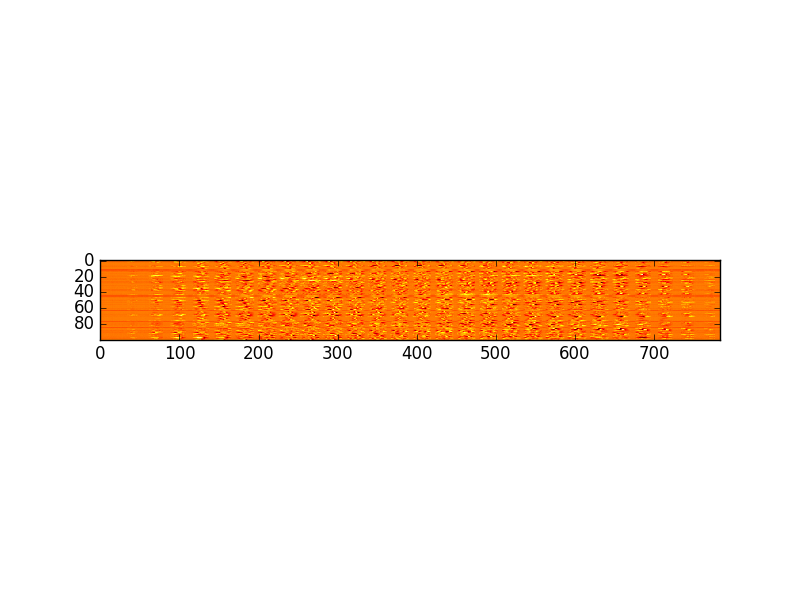
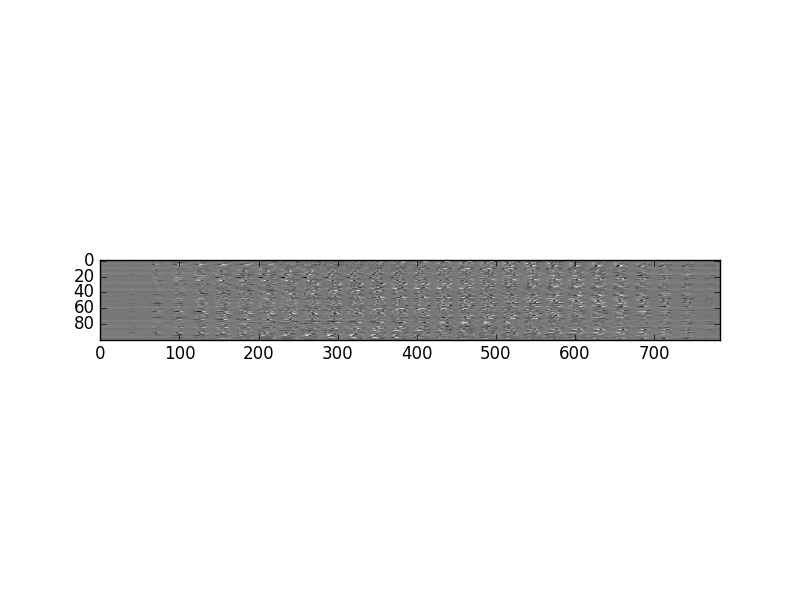
l

Changed region(s): [[0.125, 0.42, 0.9062, 0.57]]

diff --git a/rbm.py b/rbm.py
@@ -28,41 +28,41 @@ def gen_even_slices(n, n_packs, n_samples=None):
 def reformat_data(data):
 	return data.reshape((28, 28))
 
-train_data = []
-test_data = []
+def run(train_data, test_data):
+	batch_size=10
+	n_samples = np.array(train_data).shape[0]
+	n_batches = int(np.ceil(float(n_samples) / batch_size))
+	batch_slices = list(gen_even_slices(n_batches * batch_size, n_batches, n_samples))
 
-with open('binMNIST_data\\bindigit_trn.csv') as f:
-	reader = csv.reader(f)
-	for row in reader:
-		train_data.append(np.array([int(_) for _ in row]))
+	nodes = [50, 75, 100, 150]
 
-with open('binMNIST_data\\bindigit_tst.csv') as f:
-	reader = csv.reader(f)
-	for row in reader:
-		test_data.append(np.array([int(_) for _ in row]))
+	for item in nodes:
+		errors = []
+		model = BernoulliRBM(n_components=item, learning_rate=0.1, batch_size=10, n_iter=1, 
+		random_state=None, verbose=1)
+		for _ in range(20):
+			for batch_slice in batch_slices:
+				model.partial_fit(train_data[batch_slice])
+			errors.append(percent_error(model.gibbs(test_data), test_data))
+		plot.plot_points(errors)
+		plot.plot_heatmap(reformat_data(test_data[0]))
+		plot.plot_heatmap(reformat_data(model.gibbs(test_data)[0]))
+		
+		if item == 50 or item == 100:
+			plot.plot_heatmap(model.__dict__['components_'].reshape(item,784))
 
+if __name__ == "__main__":
+	train_data = []
+	test_data = []
 
+	with open('binMNIST_data\\bindigit_trn.csv') as f:
+		reader = csv.reader(f)
+		for row in reader:
+			train_data.append(np.array([int(_) for _ in row]))
 
-batch_size=10
-n_samples = np.array(train_data).shape[0]
-n_batches = int(np.ceil(float(n_samples) / batch_size))
-batch_slices = list(gen_even_slices(n_batches * batch_size, n_batches, n_samples))
+	with open('binMNIST_data\\bindigit_tst.csv') as f:
+		reader = csv.reader(f)
+		for row in reader:
+			test_data.append(np.array([int(_) for _ in row]))
 
-nodes = [50, 75, 100, 150]
-
-for item in nodes:
-	errors = []
-	model = BernoulliRBM(n_components=item, learning_rate=0.1, batch_size=10, n_iter=1, 
-	random_state=None, verbose=1)
-	for _ in range(20):
-		for batch_slice in batch_slices:
-			model.partial_fit(train_data[batch_slice])
-		errors.append(percent_error(model.gibbs(test_data), test_data))
-	plot.plot_points(errors)
-	plot.plot_heatmap(reformat_data(test_data[0]))
-	plot.plot_heatmap(reformat_data(model.gibbs(test_data)[0]))
-	
-	if item == 50 or item == 100:
-		plot.plot_heatmap(model.__dict__['components_'].reshape(item,784))
-
-
+	run(train_data, test_data)

diff --git a/ae.py b/ae.py
@@ -1,0 +1,57 @@
+from keras.layers import Input, Dense
+from keras.models import Model
+from keras.callbacks import History 
+import csv
+import numpy as np
+import plot
+
+def reformat_data(data):
+	return data.reshape((28, 28))
+
+train_data = []
+test_data = []
+
+with open('binMNIST_data\\bindigit_trn.csv') as f:
+	reader = csv.reader(f)
+	for row in reader:
+		train_data.append(np.array([int(_) for _ in row]))
+
+with open('binMNIST_data\\bindigit_tst.csv') as f:
+	reader = csv.reader(f)
+	for row in reader:
+		test_data.append(np.array([int(_) for _ in row]))
+
+train_data = np.array(train_data)
+test_data = np.array(test_data)
+
+nodes = [50, 75, 100, 150]
+
+for item in nodes:
+	encoding_dim = item
+
+	# this is our input placeholder
+	input_img = Input(shape=(784,))
+	encoded = Dense(encoding_dim, activation='relu')(input_img)
+	decoded = Dense(784, activation='sigmoid')(encoded)
+	autoencoder = Model(input_img, decoded)
+
+	autoencoder.compile(optimizer='SGD', loss='binary_crossentropy', metrics=['binary_accuracy'])
+
+	history = History()
+
+	autoencoder.fit(train_data, train_data,
+           		epochs=20,
+                batch_size=10,
+                shuffle=True,
+                verbose=0,
+                callbacks=[history],
+                validation_data=(test_data, test_data))
+
+	errors = [1-x for x in history.history['val_binary_accuracy']]
+	
+
+	plot.plot_points(errors)
+	plot.plot_heatmap(reformat_data(test_data[0]))
+	plot.plot_heatmap(reformat_data(autoencoder.predict(test_data)[0]))
+	if item == 50 or item == 100:
+		print(plot.plot_heatmap(autoencoder.layers[1].get_weights()[0].T))

diff --git a/plot.py b/plot.py
@@ -21,5 +21,5 @@ def plot_lattice(lattice, show=True):
         plt.show()
 
 def plot_heatmap(data):
-    plt.imshow(data, cmap='hot', interpolation='nearest')
+    plt.imshow(data, cmap='binary', interpolation='nearest')
     plt.show()
